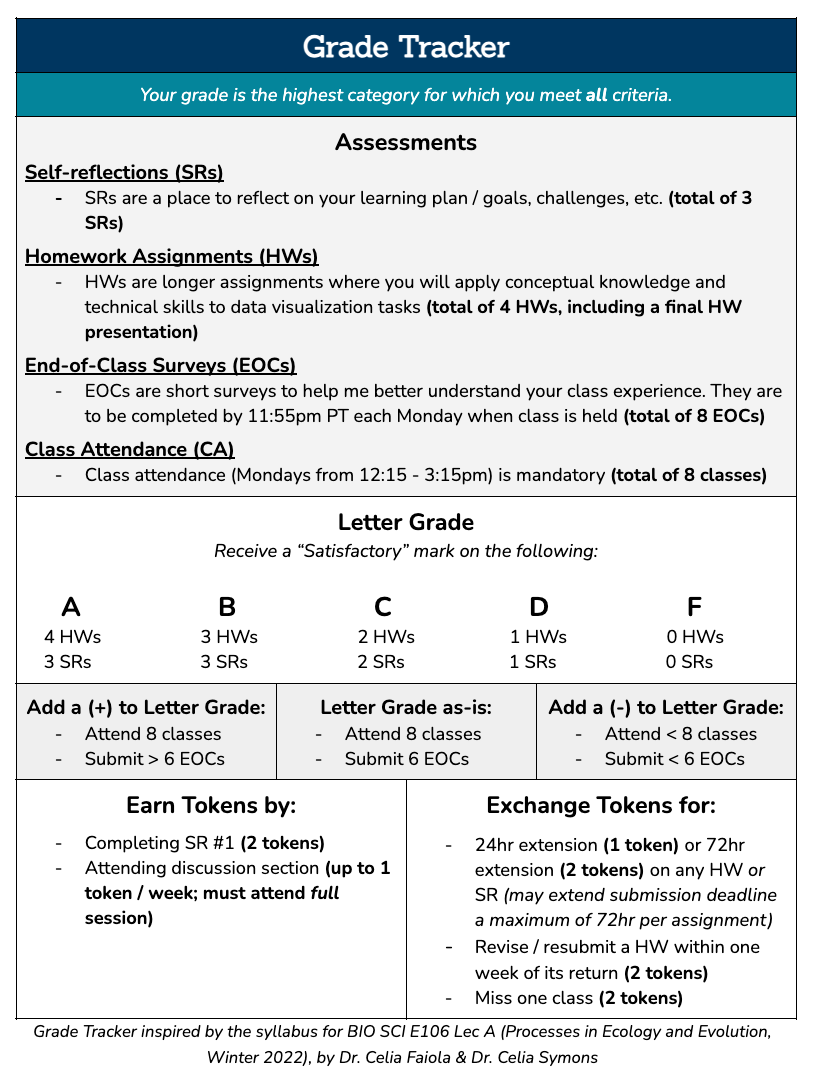
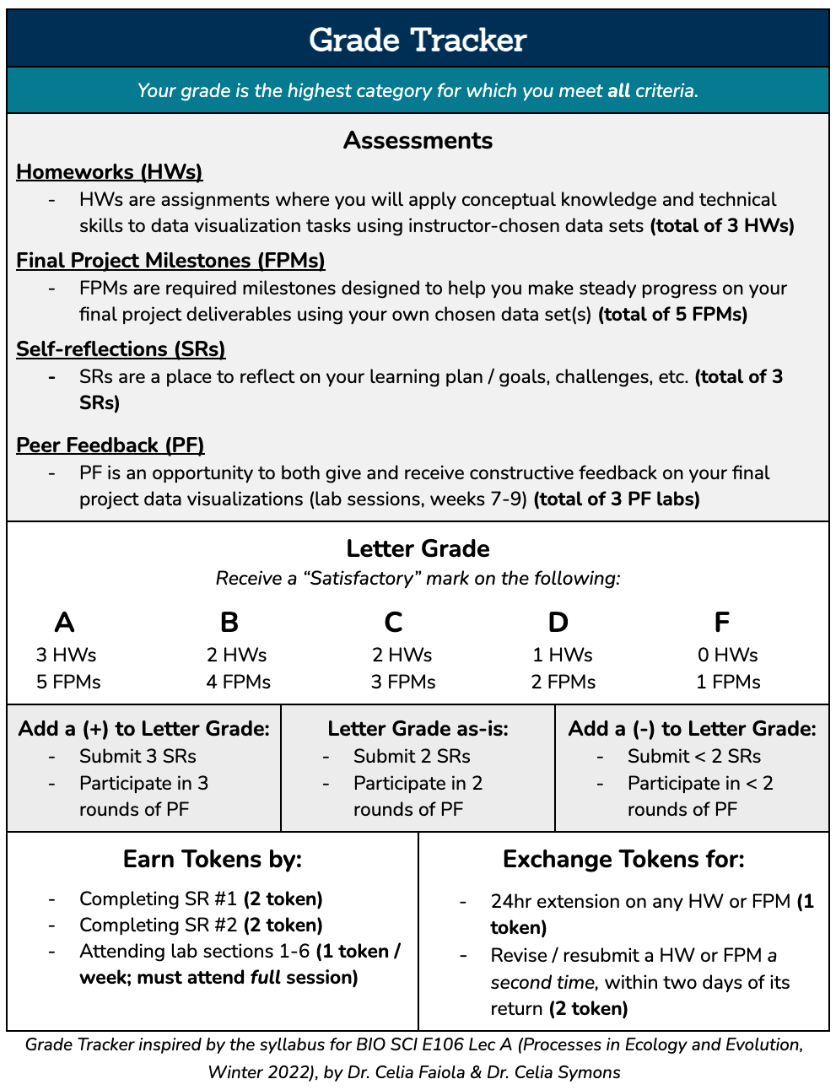
continued revision of assignment schedule and language; much more to do still in revising/rescoping individual assingments

Changed region(s): [[0.0, 0.0, 1.0, 1.0]]

diff --git a/docs/assignments.html b/docs/assignments.html
@@ -236,7 +236,6 @@ ul.task-list li input[type="checkbox"] {
   <ul>
   <li><a href="#calendar" id="toc-calendar" class="nav-link active" data-scroll-target="#calendar">Calendar</a></li>
   <li><a href="#assignments" id="toc-assignments" class="nav-link" data-scroll-target="#assignments">Assignments</a></li>
-  <li><a href="#end-of-class-surveys" id="toc-end-of-class-surveys" class="nav-link" data-scroll-target="#end-of-class-surveys">End-of-class surveys</a></li>
   <li><a href="#grade-tracker" id="toc-grade-tracker" class="nav-link" data-scroll-target="#grade-tracker">Grade Tracker</a></li>
   </ul>
 </nav>
@@ -376,71 +375,22 @@ Important
 <!-- - [Homework Assignment #3](course-materials/assignments/HW3.qmd) -->
 <!-- - [Homework Assignment #4](course-materials/assignments/HW4.qmd) -->
 <!-- - [End-of-course reflection (SR #3)](course-materials/assignments/SR3-endcourse.qmd)  -->
-</section>
-<section id="end-of-class-surveys" class="level2">
-<h2 class="anchored" data-anchor-id="end-of-class-surveys">End-of-class surveys</h2>
-<p>End-of-class surveys (EOCs) will become available at the end of each class (Mondays) and are <strong>due by end-of-day (11:55pm PT)</strong>. Completing EOCs by the due dates / times will, in-part (along with class attendance), determine whether you earn a +/- on your course grade.</p>
-<table class="caption-top table">
-<thead>
-<tr class="header">
-<th>EOC link</th>
-<th>Date Assigned</th>
-<th>Date Due</th>
-</tr>
-</thead>
-<tbody>
-<tr class="odd">
-<td>EOC (week 1)</td>
-<td>Wed 01/07/2026</td>
-<td>Wed 01/07/2026</td>
-</tr>
-<tr class="even">
-<td>EOC (week 2)</td>
-<td>Wed 01/14/2026</td>
-<td>Wed 01/14/2026</td>
-</tr>
-<tr class="odd">
-<td>EOC (week 3)</td>
-<td>Wed 01/21/2026</td>
-<td>Wed 01/21/2026</td>
-</tr>
-<tr class="even">
-<td>EOC (week 4)</td>
-<td>Wed 01/28/2026</td>
-<td>Wed 01/28/2026</td>
-</tr>
-<tr class="odd">
-<td>EOC (week 5)</td>
-<td>Wed 02/04/2026</td>
-<td>Wed 02/04/2026</td>
-</tr>
-<tr class="even">
-<td>EOC (week 6)</td>
-<td>Wed 02/11/2026</td>
-<td>Wed 02/11/2026</td>
-</tr>
-<tr class="odd">
-<td>EOC (week 7)</td>
-<td>Wed 02/18/2026</td>
-<td>Wed 02/18/2026</td>
-</tr>
-<tr class="even">
-<td>EOC (week 8)</td>
-<td>Wed 02/25/2026</td>
-<td>Wed 02/25/2026</td>
-</tr>
-<tr class="odd">
-<td>EOC (week 9)</td>
-<td>Wed 03/04/2026</td>
-<td>Wed 03/04/2026</td>
-</tr>
-<tr class="even">
-<td>EOC (week 10)</td>
-<td>Wed 03/11/2026</td>
-<td>Wed 03/11/2026</td>
-</tr>
-</tbody>
-</table>
+<!-- ## End-of-class surveys
+
+End-of-class surveys (EOCs) will become available at the end of each class (Mondays) and are **due by end-of-day (11:55pm PT)**. Completing EOCs by the due dates / times will, in-part (along with class attendance), determine whether you earn a +/- on your course grade. 
+
+| EOC link                     | Date Assigned  | Date Due       |
+|------------------------------|----------------|----------------|
+| EOC (week 1)                 | Wed 01/07/2026 | Wed 01/07/2026 |
+| EOC (week 2)                 | Wed 01/14/2026 | Wed 01/14/2026 |
+| EOC (week 3)                 | Wed 01/21/2026 | Wed 01/21/2026 |
+| EOC (week 4)                 | Wed 01/28/2026 | Wed 01/28/2026 |
+| EOC (week 5)                 | Wed 02/04/2026 | Wed 02/04/2026 |
+| EOC (week 6)                 | Wed 02/11/2026 | Wed 02/11/2026 |
+| EOC (week 7)                 | Wed 02/18/2026 | Wed 02/18/2026 |
+| EOC (week 8)                 | Wed 02/25/2026 | Wed 02/25/2026 |
+| EOC (week 9)                 | Wed 03/04/2026 | Wed 03/04/2026 |
+| EOC (week 10)                | Wed 03/11/2026 | Wed 03/11/2026 | -->
 <!-- - [EOC (week 1)](https://forms.gle/RGd3qzQR4ue9HvfR8) -->
 <!-- - [EOC (week 2)](https://forms.gle/XMnf7cxrxmbcAA5k6) -->
 <!-- - [EOC (week 4)](https://forms.gle/PHLtJEhQcSUvnouG8) -->

diff --git a/docs/course-materials/assignments/HW1.html b/docs/course-materials/assignments/HW1.html
@@ -7,7 +7,7 @@
 <meta name="viewport" content="width=device-width, initial-scale=1.0, user-scalable=yes">
 
 
-<title>HW #1: Annotating {ggplot2} code – EDS 240</title>
+<title>HW #1: Interpreting {ggplot2} code – EDS 240</title>
 <style>
 code{white-space: pre-wrap;}
 span.smallcaps{font-variant: small-caps;}
@@ -129,7 +129,7 @@ pre > code.sourceCode > span > a:first-child::before { text-decoration: underlin
 <span class="menu-text">home</span></a>
   </li>  
   <li class="nav-item">
-    <a class="nav-link" href="https://docs.google.com/document/d/1ZALT0Ef9GQga5rkBAWJhzQ2npC4l-FkcNV4kMYFud0Q/edit?usp=sharing" target="_blank"> 
+    <a class="nav-link" href="https://docs.google.com/document/d/19Fr6XxobSM7OAdqcpZ7AyZ4qGHO5iLyS6iGEkP4W7SU/edit?usp=sharing" target="_blank"> 
 <span class="menu-text">syllabus</span></a>
   </li>  
   <li class="nav-item dropdown ">
@@ -246,7 +246,7 @@ pre > code.sourceCode > span > a:first-child::before { text-decoration: underlin
 <header id="title-block-header" class="quarto-title-block default page-columns page-full">
   <div class="quarto-title-banner page-columns page-full">
     <div class="quarto-title column-page-left">
-      <h1 class="title">HW #1: Annotating <code>{ggplot2}</code> code</h1>
+      <h1 class="title">HW #1: Interpreting <code>{ggplot2}</code> code</h1>
             <p class="subtitle lead">Assigned Wed 01/07/2026 | Due Wed 01/14/2026</p>
                       </div>
   </div>
@@ -295,7 +295,7 @@ Important
 </div>
 </div>
 <div class="callout-body-container callout-body">
-<p>TODO: revise assignment; include genAI component; update LOs; add final Q about using genAI</p>
+<p>TODO: revise assignment – make focus the responses to questions to verify understanding of each component of the ggplot; include genAI component; update LOs; add final Q about using genAI</p>
 </div>
 </div>
 <section id="LOs" class="level2">

diff --git a/docs/course-materials/discussion/week1/week1-exercise.html b/docs/course-materials/discussion/week1/week1-exercise.html
@@ -139,7 +139,7 @@ pre > code.sourceCode > span > a:first-child::before { text-decoration: underlin
 <span class="menu-text">home</span></a>
   </li>  
   <li class="nav-item">
-    <a class="nav-link" href="https://docs.google.com/document/d/1ZALT0Ef9GQga5rkBAWJhzQ2npC4l-FkcNV4kMYFud0Q/edit?usp=sharing" target="_blank"> 
+    <a class="nav-link" href="https://docs.google.com/document/d/19Fr6XxobSM7OAdqcpZ7AyZ4qGHO5iLyS6iGEkP4W7SU/edit?usp=sharing" target="_blank"> 
 <span class="menu-text">syllabus</span></a>
   </li>  
   <li class="nav-item dropdown ">

diff --git a/docs/course-materials/keys/KEY-lecture1.3-ggplot-review.html b/docs/course-materials/keys/KEY-lecture1.3-ggplot-review.html
@@ -131,7 +131,7 @@ pre > code.sourceCode > span > a:first-child::before { text-decoration: underlin
 <span class="menu-text">home</span></a>
   </li>  
   <li class="nav-item">
-    <a class="nav-link" href="https://docs.google.com/document/d/1ZALT0Ef9GQga5rkBAWJhzQ2npC4l-FkcNV4kMYFud0Q/edit?usp=sharing" target="_blank"> 
+    <a class="nav-link" href="https://docs.google.com/document/d/19Fr6XxobSM7OAdqcpZ7AyZ4qGHO5iLyS6iGEkP4W7SU/edit?usp=sharing" target="_blank"> 
 <span class="menu-text">syllabus</span></a>
   </li>  
   <li class="nav-item dropdown ">

diff --git a/docs/course-materials/week1.html b/docs/course-materials/week1.html
@@ -130,7 +130,7 @@ pre > code.sourceCode > span > a:first-child::before { text-decoration: underlin
 <span class="menu-text">home</span></a>
   </li>  
   <li class="nav-item">
-    <a class="nav-link" href="https://docs.google.com/document/d/1ZALT0Ef9GQga5rkBAWJhzQ2npC4l-FkcNV4kMYFud0Q/edit?usp=sharing" target="_blank"> 
+    <a class="nav-link" href="https://docs.google.com/document/d/19Fr6XxobSM7OAdqcpZ7AyZ4qGHO5iLyS6iGEkP4W7SU/edit?usp=sharing" target="_blank"> 
 <span class="menu-text">syllabus</span></a>
   </li>  
   <li class="nav-item dropdown ">

diff --git a/docs/course-materials/assignments/final-project.html b/docs/course-materials/assignments/final-project.html
@@ -95,7 +95,7 @@ ul.task-list li input[type="checkbox"] {
 <span class="menu-text">home</span></a>
   </li>  
   <li class="nav-item">
-    <a class="nav-link" href="https://docs.google.com/document/d/1ZALT0Ef9GQga5rkBAWJhzQ2npC4l-FkcNV4kMYFud0Q/edit?usp=sharing" target="_blank"> 
+    <a class="nav-link" href="https://docs.google.com/document/d/19Fr6XxobSM7OAdqcpZ7AyZ4qGHO5iLyS6iGEkP4W7SU/edit?usp=sharing" target="_blank"> 
 <span class="menu-text">syllabus</span></a>
   </li>  
   <li class="nav-item dropdown ">
